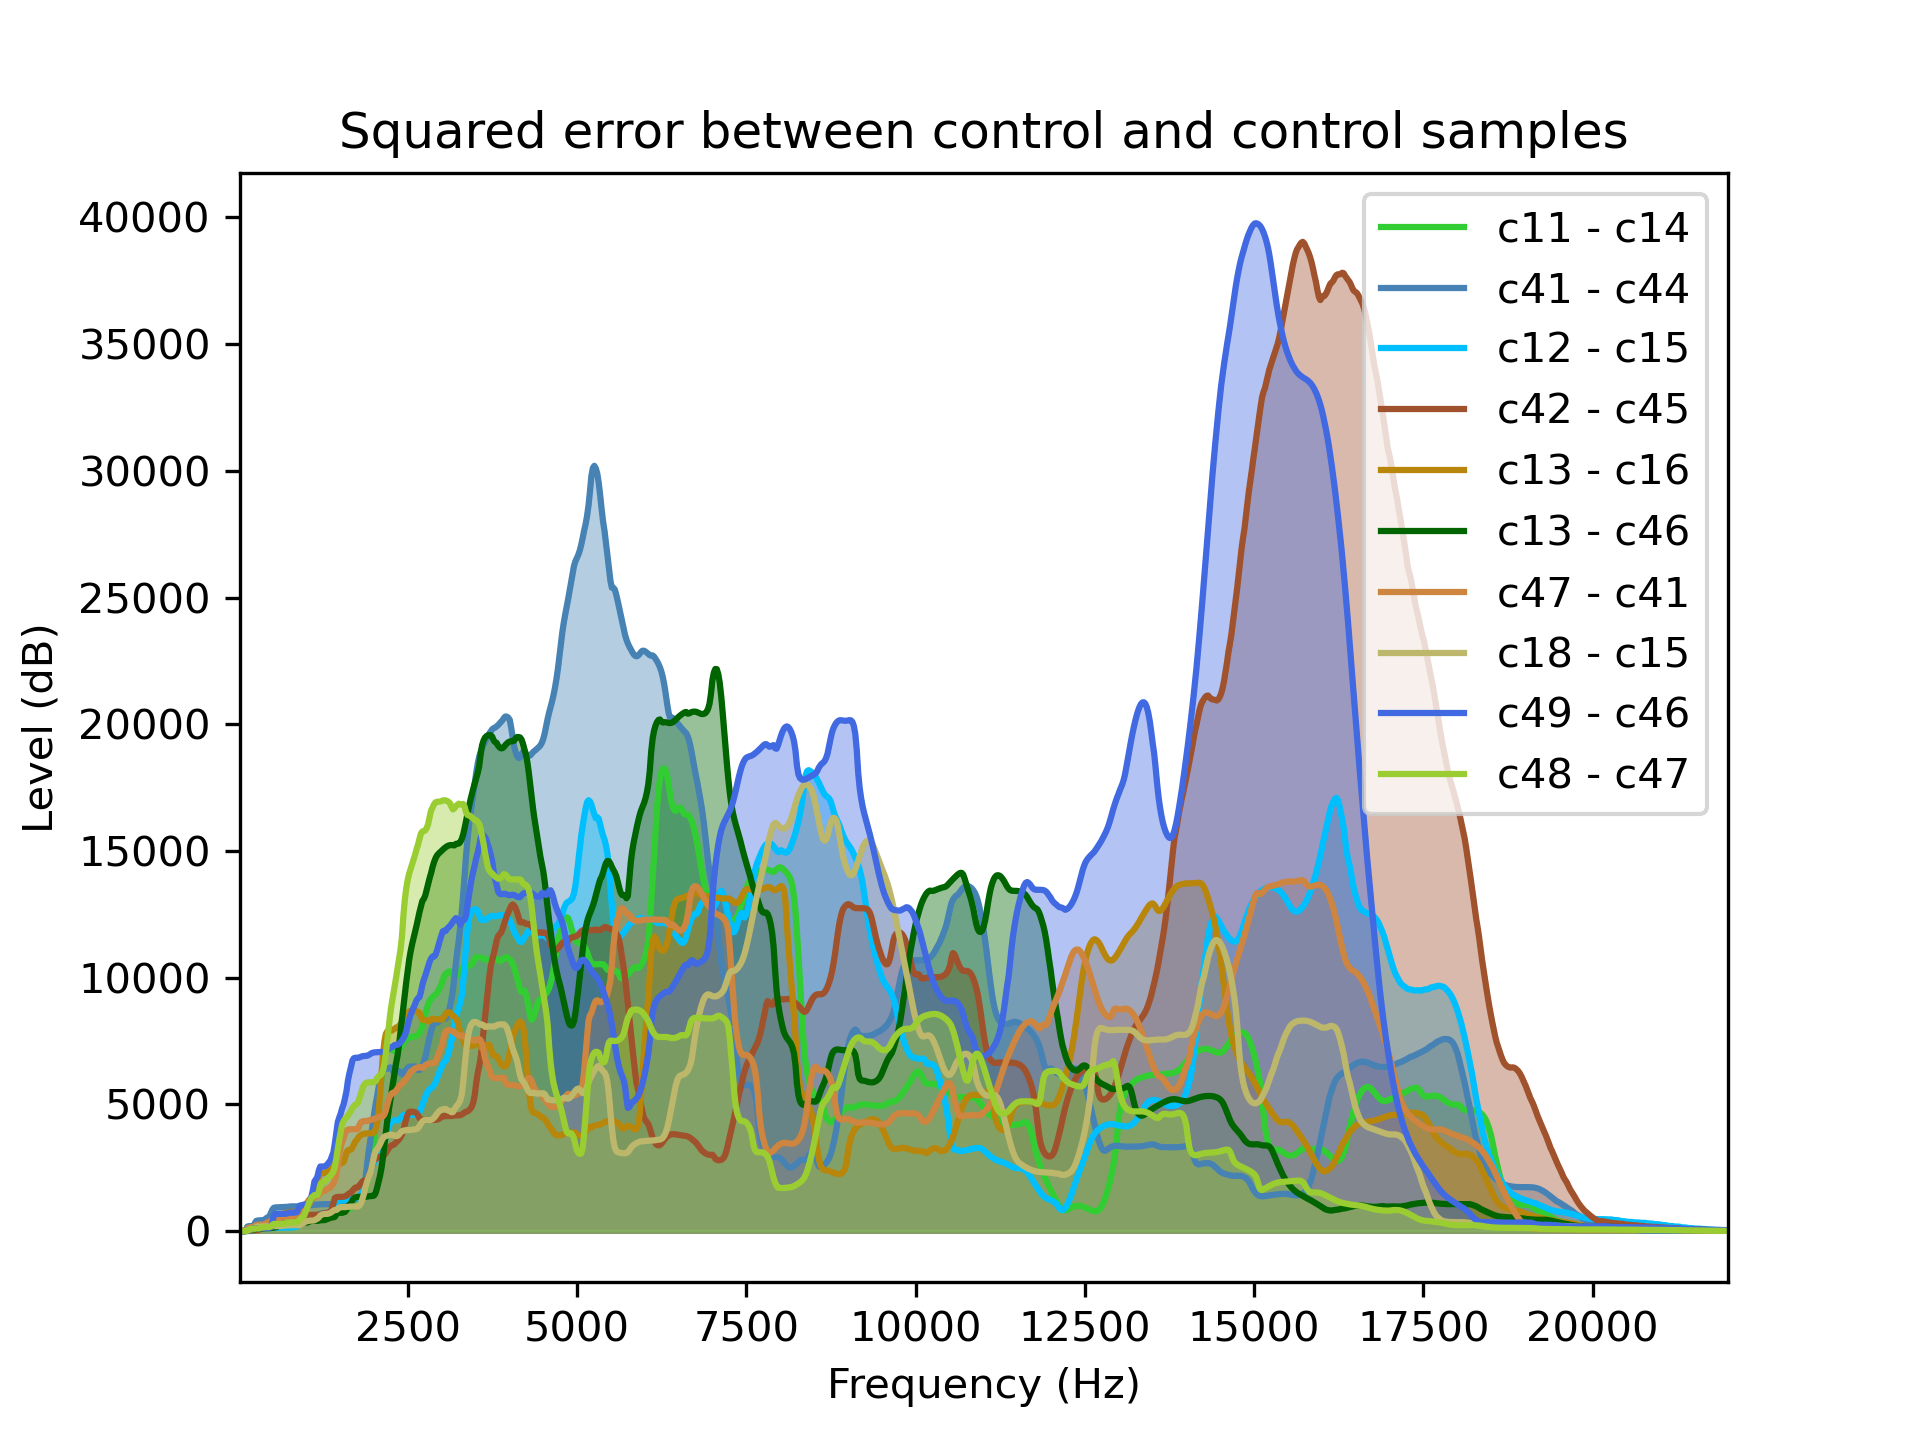
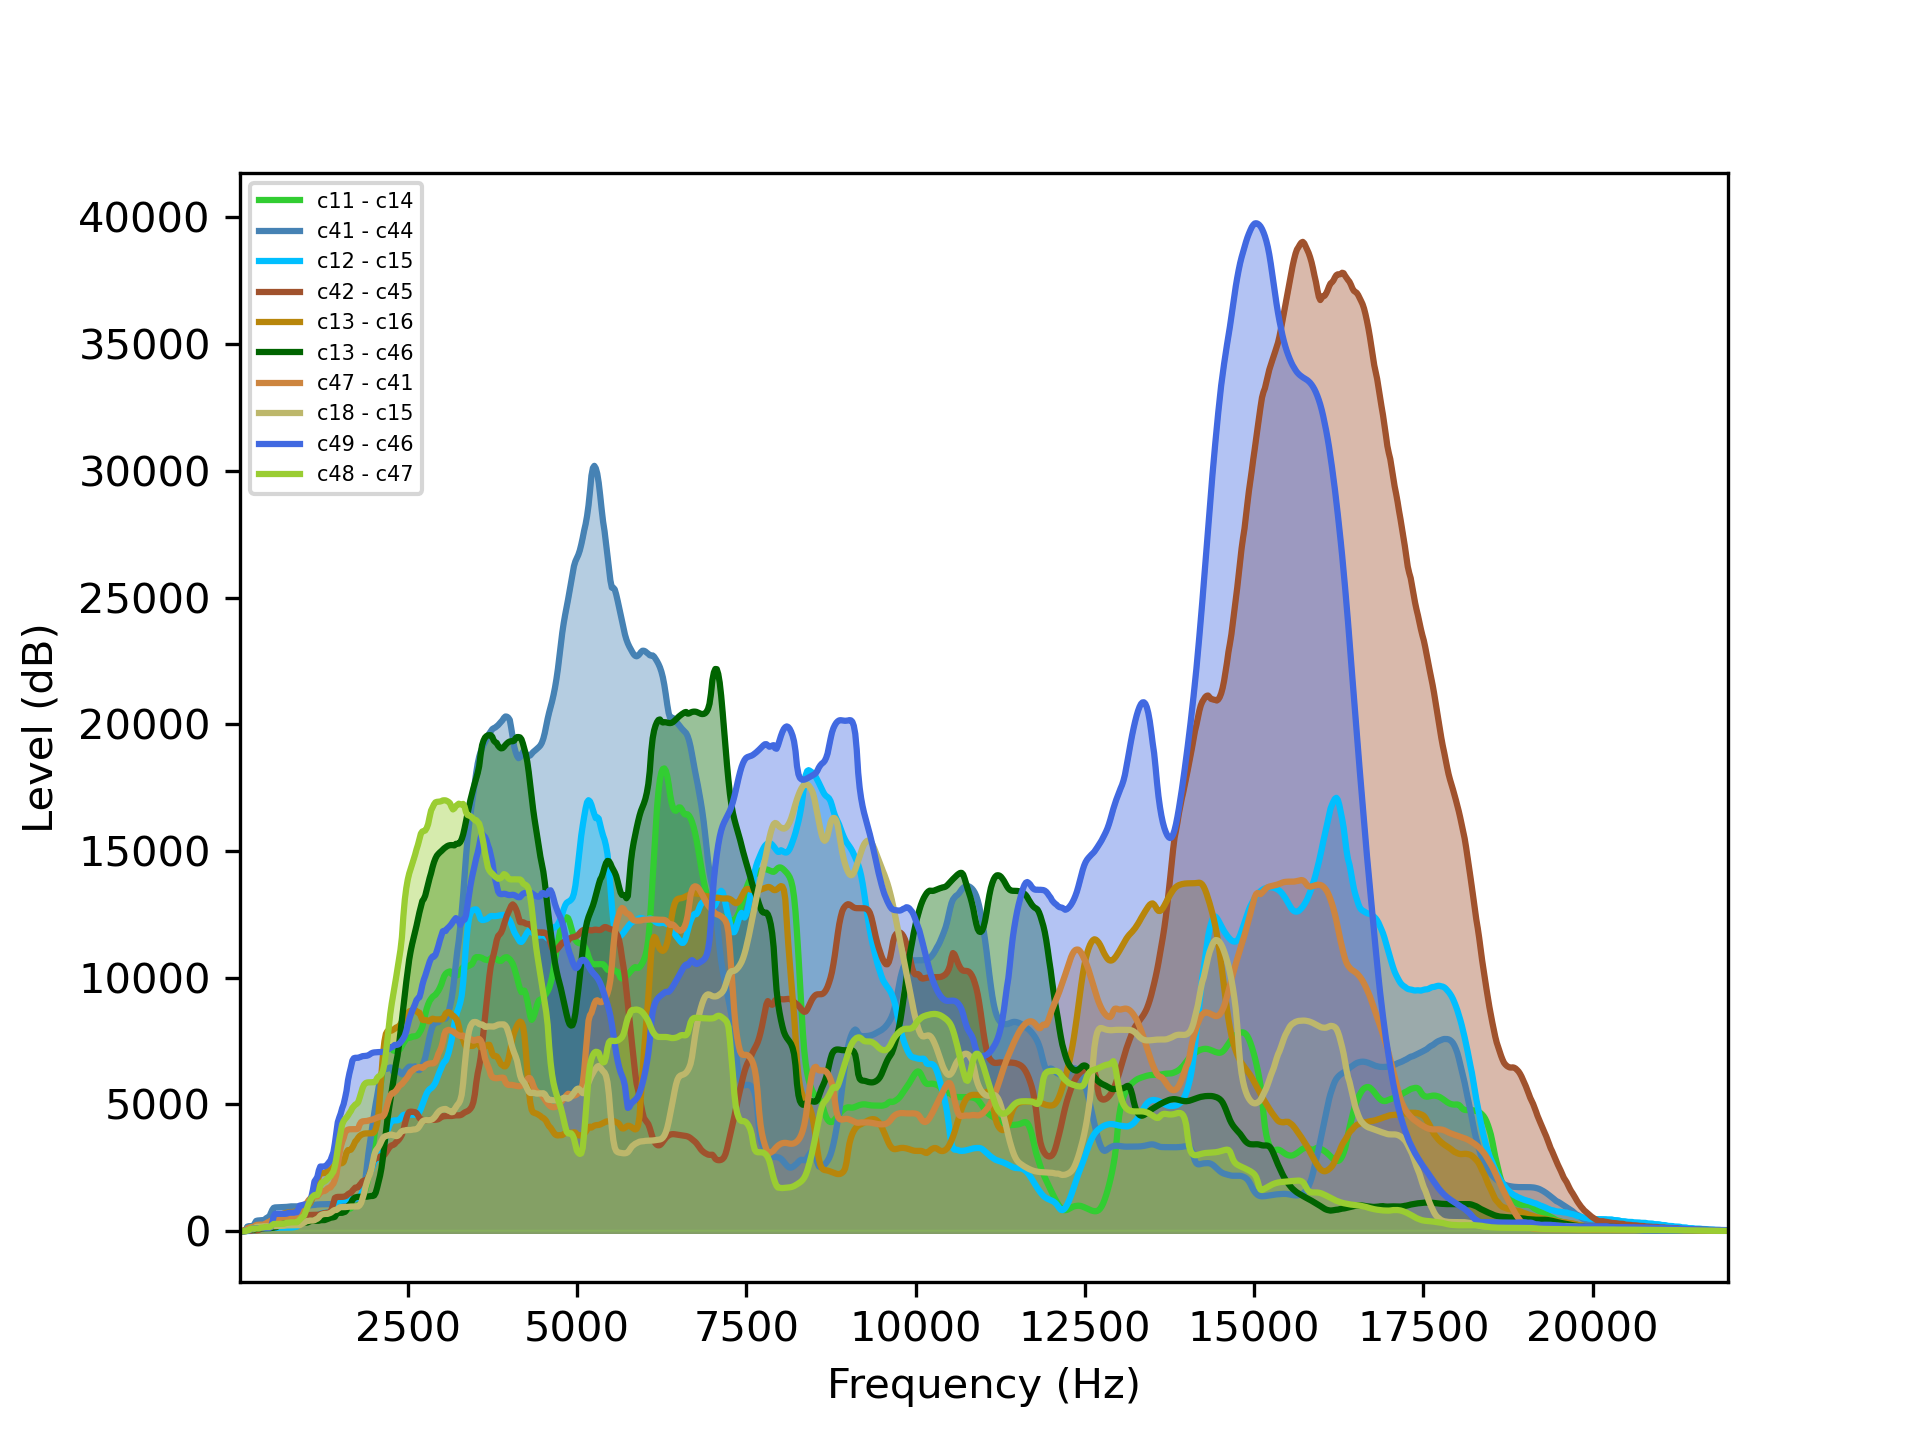
adjusted error plots

Changed region(s): [[0.5, 0.0625, 0.9062, 0.5938], [0.125, 0.0625, 0.4688, 0.3438], [0.8438, 0.5312, 0.875, 0.5625]]

diff --git a/error_plots/c_vs_e.py b/error_plots/c_vs_e.py
@@ -118,12 +118,12 @@ axes.fill_between(rel[x], rel[h], color=c8, alpha=0.4)
 axes.fill_between(rel[x], rel[i],  color=c9, alpha=0.4)
 axes.fill_between(rel[x], rel[j], color=c10, alpha=0.4)
 
-axes.set_title("Squared error between control and extreme decay samples")
+#axes.set_title("Squared error between control and extreme decay samples")
 axes.set_xlabel(x)
 axes.set_ylabel(y)
 axes.set_xlim(20,22000)
 #axes.set_ylim(-15,15)
-plt.legend(loc=2, prop={'size': 6})
+plt.legend(loc=2, prop={'size': 5})
 #axes.set_xscale('log')
 # axes.get_legend().remove()
 plt.savefig('c_vs_e.png',dpi=300)

diff --git a/error_plots/c_vs_d.py b/error_plots/c_vs_d.py
@@ -119,12 +119,12 @@ axes.fill_between(rel[x], rel[h], color=c8, alpha=0.4)
 axes.fill_between(rel[x], rel[i],  color=c9, alpha=0.4)
 axes.fill_between(rel[x], rel[j], color=c10, alpha=0.4)
 
-axes.set_title("Squared error between control and decay samples")
+#axes.set_title("Squared error between control and decay samples")
 axes.set_xlabel(x)
 axes.set_ylabel(y)
 #axes.set_xlim(20,22000)
 #axes.set_ylim(-15,15)
-plt.legend(loc=2, prop={'size': 6})
+plt.legend(loc=2, prop={'size': 5})
 #axes.set_xscale('log')
 # axes.get_legend().remove()
 plt.savefig('c_vs_d.png',dpi=300)

diff --git a/error_plots/c_vs_m.py b/error_plots/c_vs_m.py
@@ -117,12 +117,12 @@ axes.fill_between(rel[x], rel[h], color=c8, alpha=0.4)
 axes.fill_between(rel[x], rel[i],  color=c9, alpha=0.4)
 axes.fill_between(rel[x], rel[j], color=c10, alpha=0.4)
 
-axes.set_title("Squared error between control and moist samples")
+#axes.set_title("Squared error between control and moist samples")
 axes.set_xlabel(x)
 axes.set_ylabel(y)
 axes.set_xlim(20,22000)
 #axes.set_ylim(-15,15)
-plt.legend(loc=2, prop={'size': 6})
+plt.legend(loc=2, prop={'size': 5})
 #axes.set_xscale('log')
 # axes.get_legend().remove()
 plt.savefig('c_vs_m.png',dpi=300)

diff --git a/error_plots/c_vs_c.py b/error_plots/c_vs_c.py
@@ -107,13 +107,14 @@ axes.fill_between(rel[x], rel[h], color=c8, alpha=0.4)
 axes.fill_between(rel[x], rel[i],  color=c9, alpha=0.4)
 axes.fill_between(rel[x], rel[j], color=c10, alpha=0.4)
 
-axes.set_title("Squared error between control and control samples")
+#axes.set_title("Squared error between control and control samples")
 axes.set_xlabel(x)
 axes.set_ylabel(y)
 axes.set_xlim(20,22000)
 #axes.set_ylim(-20,20)
 #axes.set_xscale('log')
 # axes.get_legend().remove()
+plt.legend(loc=2, prop={'size': 5})
 plt.savefig('c_vs_c.png',dpi=300)
 plt.show()
 exit()
